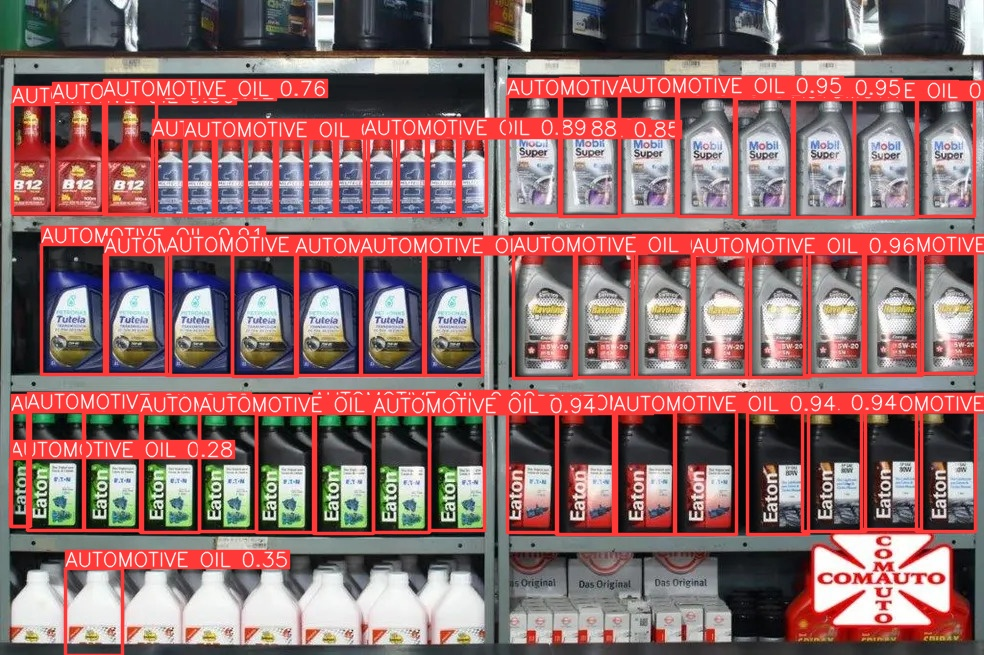
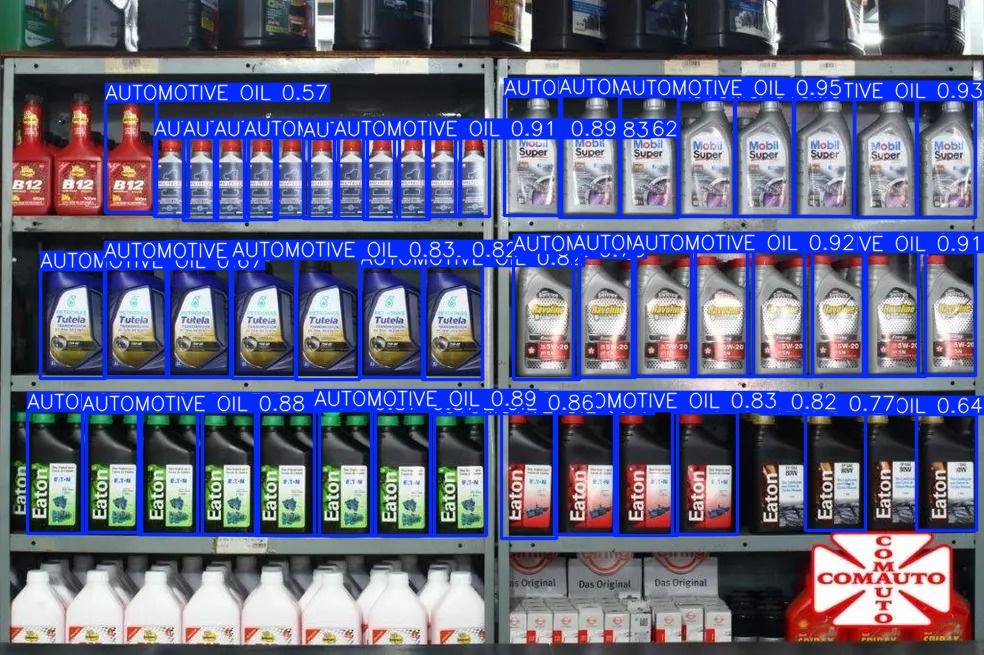
ajustes finais no modelo da ia

Changed region(s): [[0.0, 0.0916, 1.0, 1.0]]

diff --git a/main.py b/main.py
@@ -2,28 +2,36 @@ import os
 import ultralytics
 from ultralytics import YOLO
 
-ultralytics.checks()
 dir = 'datasets\\'
 
-# model = YOLO('yolov8n.yaml')  # build a new model from scratch
-model = YOLO('yolov8m.pt')  # load a pretrained model (recommended for training)
+def main():
+    ultralytics.checks()  # Realiza verificações básicas para garantir que o ambiente está configurado corretamente
+    model = YOLO('yolov8m.pt')  # Carrega um modelo pré-treinado (recomendado para treinamento)
 
-results = model.train(data="config.yaml", epochs=200, patience=100, val=True) # train the model
-results = model.val(conf=0.5,save_json=True) # evaluate model performance on the validation set
-results = model([
-    dir+'test\\store.jpg'
-    ],conf=0.5)  # predict on an image
+    # Treine o modelo usando o conjunto de dados especificado no arquivo config.yaml
+    # epochs=200: Treina o modelo por 200 épocas
+    # patience=100: Define a paciência do treinamento para 100 épocas (quantidade de épocas sem melhoria antes de parar)
+    # val=True: Realiza validação ao final de cada época de treinamento
+    # batch=-1: Ajusta automaticamente o tamanho do lote com base nos recursos disponíveis
+    # single_cls=True: Trata todas as classes como uma única classe durante o treinamento (útil para detecção de uma única classe)
+    results = model.train(data="config.yaml", epochs=200, patience=100, val=True, batch=1, single_cls=True)  
 
-# Process results list
-for i, result in enumerate(results):
-    boxes = result.boxes  # Boxes object for bounding box outputs
-    # masks = result.masks  # Masks object for segmentation masks outputs
-    keypoints = result.keypoints  # Keypoints object for pose outputs
-    probs = result.probs  # Probs object for classification outputs
-    result.show()  # display to screen
-    
-    # Construa o caminho completo para o arquivo
-    save_path = os.path.join(dir+'results', f'result_v6_{i}.jpg')
-    
-    # Salve a imagem no caminho especificado
-    result.save(filename=save_path)
+    # Avalia o desempenho do modelo no conjunto de validação
+    # conf=0.50: Define um limiar de confiança de 50% para as predições durante a validação
+    # save_json=True: Salva os resultados da avaliação em um arquivo JSON
+    results = model.val(conf=0.01, save_json=True)  
+
+    # Realiza a predição em uma imagem específica localizada no caminho 'datasets\\test\\store.jpg'
+    # conf=0.50: Define um limiar de confiança de 50% para as predições
+    results = model.predict(['datasets\\test\\store.jpg'], conf=0.4, show_labels=False)
+
+    # Process results list
+    for result in results:
+    # Exibe o resultado na tela, mostrando apenas as caixas delimitadoras e a confiabilidade, sem as labels
+        result.show(labels=False, conf=True)
+        # Constrói o caminho completo para salvar o arquivo com o resultado
+        save_path = os.path.join(dir + 'results', 'result_v3.jpg')
+        result.save(filename=save_path)
+
+if __name__ == '__main__':
+    main()
